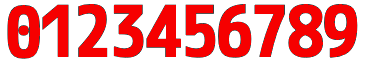
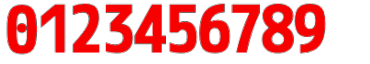
スコア微調整

diff --git a/main.go b/main.go
@@ -25,7 +25,7 @@ const (
 	EFFECT_FRAME_WIDTH  = 340
 	EFFECT_FRAME_HEIGHT = 340
 	EFFECT_FRAME_COUNT  = 9
-	SCORE_OX            = 10
+	SCORE_OX            = 6
 	SCORE_OY            = 0
 	SCORE_WIDTH         = 32
 	SCORE_HEIGHT        = 64
@@ -376,16 +376,15 @@ func (g *Game) Draw(screen *ebiten.Image) {
 	*/
 	// スコア表示（桁数分ループしてベース画像から数字を引っ張ってくる）
 	for i := 0; i <= 6; i++ {
-
+		// 数字の桁部分から値を取得する
 		s := getDigits(g.score, i, i)
 
-		op4 := &ebiten.DrawImageOptions{}
-		op4.GeoM.Scale(0.5, 0.5)
 		// スコアの数字から取得位置変える
 		// 桁数から表示位置を変える
-		//op1.GeoM.Translate(-float64(EFFECT_FRAME_WIDTH)/2, -float64(EFFECT_FRAME_HEIGHT)/2)
-		op4.GeoM.Translate(float64(500-(i*32)), 0)
-		sx := SCORE_OX + (s * 32)
+		op4 := &ebiten.DrawImageOptions{}
+		op4.GeoM.Scale(0.5, 0.5)
+		op4.GeoM.Translate(float64(600-(i*20)), 0)
+		sx := SCORE_OX + (s * SCORE_WIDTH)
 		sy := SCORE_OY
 
 		screen.DrawImage(g.scoreImage.SubImage(image.Rect(sx, sy, sx+SCORE_WIDTH, sy+SCORE_HEIGHT)).(*ebiten.Image), op4)
